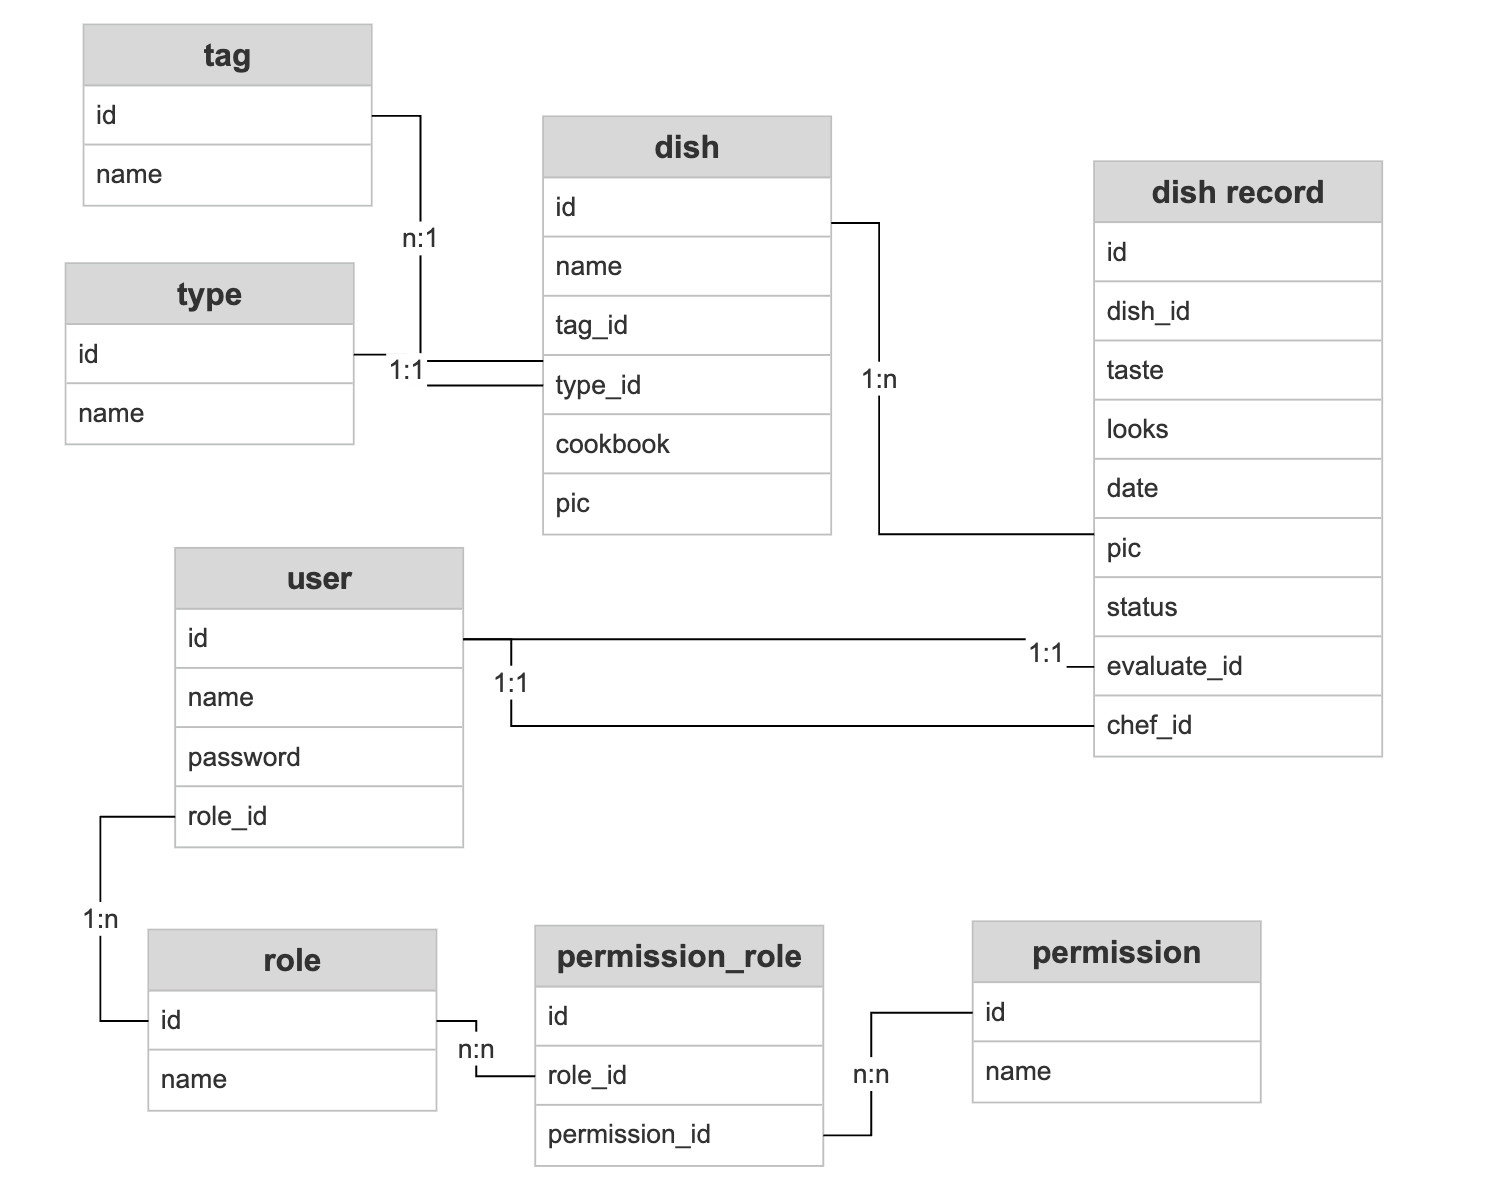
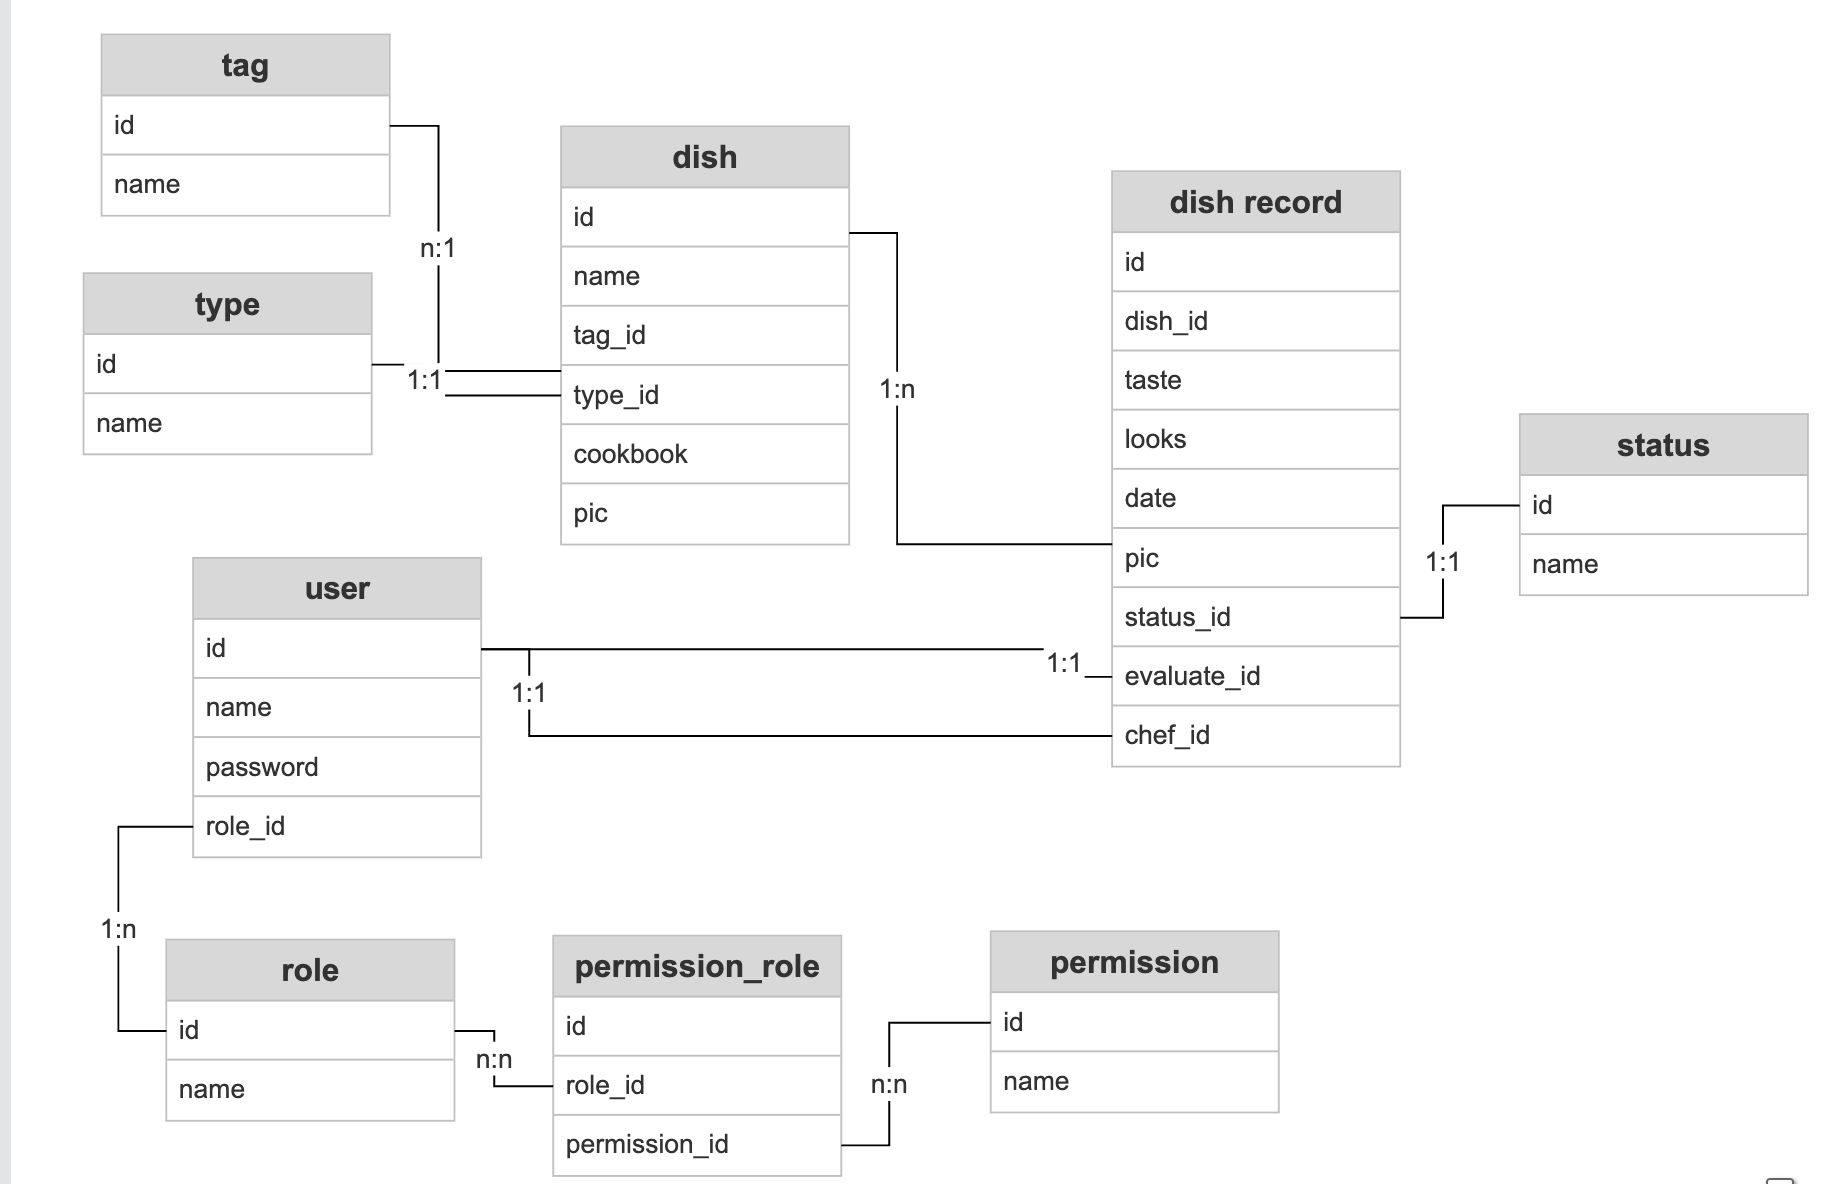
feat: 更新er图

Changed region(s): [[0.0, 0.0, 0.9906, 1.0]]

diff --git a/docs/model.md b/docs/model.md
@@ -1,40 +1,60 @@
+# 模型设计
+
 ## dish model
 
-id 菜肴id
-name  菜肴名称
-tag   标签 如 猪肉，牛肉，煎
-type  菜肴所属类别
-cookbook 菜谱
-pic   菜肴预览图
+- id 菜肴id
+- name  菜肴名称
+- tag_id   标签id
+- type_id  类别id
+- cookbook 菜谱
+- pic   菜肴预览图
 
 ## dish record model
 
-id 记录id
-dishId 菜肴id
-taste 口味评分
-looks 外观评分
-date 时间
-pic 菜肴记录图片
+- id 记录id
+- dishId 菜肴id
+- taste 口味评分
+- looks 外观评分
+- date 时间
+- pic 菜肴记录图片
+- status 状态
+- evaluate_id 评价人
+- chef_if 厨师
+
+## tag model
+- id 标签id
+- name  标签名称
+
+## type model
+- id 类别id
+- name  类别名称
+
+## status model
+- id 状态id
+- name  状态名称
 
 ## user model
 
-id 用户id
-name 用户名
-password 密码
-roleId 角色
+- id 用户id
+- name 用户名
+- password 密码
+- role_id 角色
 
 ## role model
 
-id 角色id
-name 角色名称
+- id 角色id
+- name 角色名称
 
 ## permission model
 
-id 权限id
-name 权限名称
+- id 权限id
+- name 权限名称
 
 ## permission_role model
 
-id 表id
-role_id 角色id
-permission_id 权限id
+- id 表id
+- role_id 角色id
+- permission_id 权限id
+
+# ER图
+[ER图](https://raw.githubusercontent.com/VincentWang1009/home-order/main/docs/er.png)
